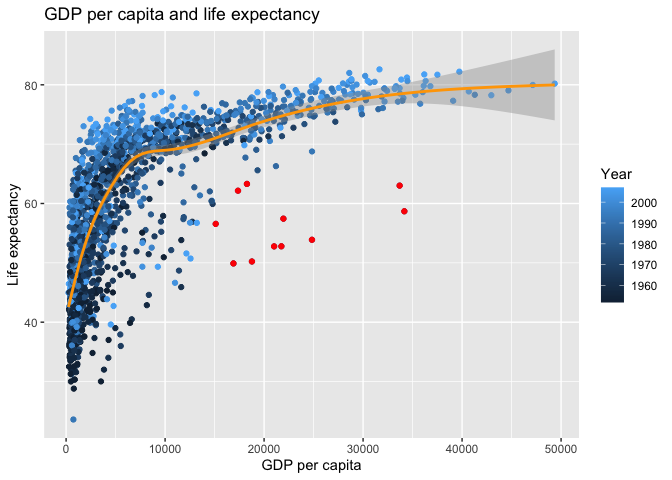
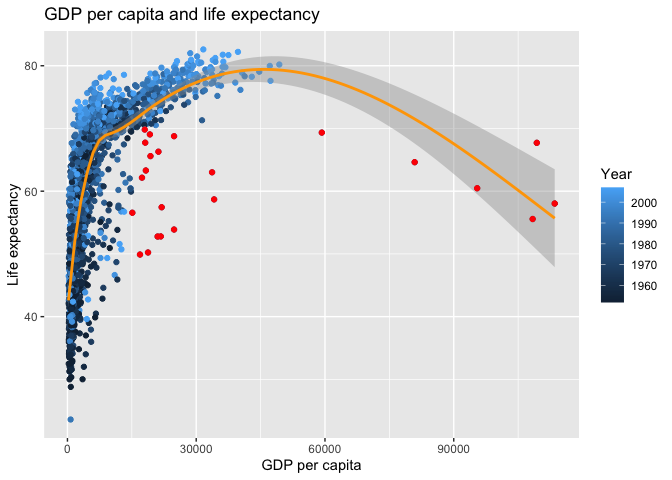
Gapminder v 1.3 - added Kuwait back into the final graphs

diff --git a/c04-gapminder-assignment.md b/c04-gapminder-assignment.md
@@ -339,7 +339,7 @@ gapminder %>%
   #coord_trans(x = "log") +
   geom_smooth(color = "orange") +
   labs(
-    title = "GDP per capita and life expectancy",
+    title = "GDP per capita and life expectancy (excluding Kuwait)",
     x = "GDP per capita",
     y = "Life expectancy"
   )
@@ -362,36 +362,41 @@ gapminder %>%
 ``` r
 rich_but_unhealthy <-
   gapminder %>%
-  filter(country != "Kuwait" & gdpPercap > 15000 & lifeExp < 65) %>%
+  filter(gdpPercap > 15000 & lifeExp < 70) %>%
   arrange(country)
 
 rich_but_unhealthy
 ```
 
-    ## # A tibble: 11 x 6
-    ##    country      continent  year lifeExp      pop gdpPercap
-    ##    <fct>        <fct>     <int>   <dbl>    <int>     <dbl>
-    ##  1 Bahrain      Asia       1972    63.3   230800    18269.
-    ##  2 Gabon        Africa     1977    52.8   706367    21746.
-    ##  3 Gabon        Africa     1982    56.6   753874    15113.
-    ##  4 Libya        Africa     1967    50.2  1759224    18773.
-    ##  5 Libya        Africa     1972    52.8  2183877    21011.
-    ##  6 Libya        Africa     1977    57.4  2721783    21951.
-    ##  7 Libya        Africa     1982    62.2  3344074    17364.
-    ##  8 Saudi Arabia Asia       1967    49.9  5618198    16903.
-    ##  9 Saudi Arabia Asia       1972    53.9  6472756    24837.
-    ## 10 Saudi Arabia Asia       1977    58.7  8128505    34168.
-    ## 11 Saudi Arabia Asia       1982    63.0 11254672    33693.
+    ## # A tibble: 23 x 6
+    ##    country continent  year lifeExp    pop gdpPercap
+    ##    <fct>   <fct>     <int>   <dbl>  <int>     <dbl>
+    ##  1 Bahrain Asia       1972    63.3 230800    18269.
+    ##  2 Bahrain Asia       1977    65.6 297410    19340.
+    ##  3 Bahrain Asia       1982    69.1 377967    19211.
+    ##  4 Gabon   Africa     1977    52.8 706367    21746.
+    ##  5 Gabon   Africa     1982    56.6 753874    15113.
+    ##  6 Kuwait  Asia       1952    55.6 160000   108382.
+    ##  7 Kuwait  Asia       1957    58.0 212846   113523.
+    ##  8 Kuwait  Asia       1962    60.5 358266    95458.
+    ##  9 Kuwait  Asia       1967    64.6 575003    80895.
+    ## 10 Kuwait  Asia       1972    67.7 841934   109348.
+    ## # … with 13 more rows
 
 **Observations**:
 
   - These “rich but unhealthy” countries (per capita GDP greater than
-    15,000, but life expectancy less than 65) are (excluding Kuwait,
-    which would fall in this set but has already been covered): Bahrain;
-    Gabon; Libya; and Saudi Arabia.
-  - I am familiar with Saudi Arabia, Libya, and Bahrain as oil-rich
-    authoritarian nations with a wealthy elite and the bulk of the
-    population being much less wealthy, but I knew little about Gabon.
+    15,000, but life expectancy less than 70) are: Bahrain; Gabon;
+    Kuwait (as covered previously); Libya; Oman; Saudi Arabia; and
+    Trinidad and Tobago (only in 2007).
+  - I am familiar with most of these nations as oil-rich authoritarian
+    nations with a wealthy elite and the bulk of the population being
+    much less wealthy, but I am not as familiar with the governmental
+    structure of Trinidad and Tobago, and I know little about Gabon.
+    (Some racism inherent in my education, I suspect. Gabon is the only
+    nation in this list located in sub-Saharan Africa, and my education
+    on this region tends to be limited to the worst of ethno-political
+    conflicts–e.g. Congo, Rwanda–and the native megafauna.)
   - Gabon (during the time period it fit these criteria, 1977-1982) was
     a one-party state with an “elected” president who had initially been
     elected in 1961 (following Gabon’s liberation from French colonial
@@ -405,13 +410,15 @@ rich_but_unhealthy
     throughout this time period.) Bongo eventually died in 2009, and was
     succeeded by his son, Ali Bongo Ondimba (also now referred to as
     Bongo). Gabon’s economy is dominated by oil.
+  - Trinidad and Tobago has been experiencing an oil boom since 2003,
+    and it seems that although it is ostensibly a democracy, it is rife
+    with corruption.
 
 <!-- end list -->
 
 ``` r
 ## TASK: Your third graph
 gapminder %>%
-  filter(country != "Kuwait") %>%
   ggplot(aes(gdpPercap, lifeExp)) +
   geom_point(aes(color = year)) +
   scale_color_continuous(name = "Year") +
@@ -430,7 +437,7 @@ gapminder %>%
 ![](c04-gapminder-assignment_files/figure-gfm/q5-task3,%20revisited-1.png)<!-- -->
 
 The red points on the chart above are these “rich but unhealthy” nations
-that I filtered somewhat arbitrarily out of the dataset.
+that I filtered out of the dataset previously.
 
 <!-- include-rubric -->
 
